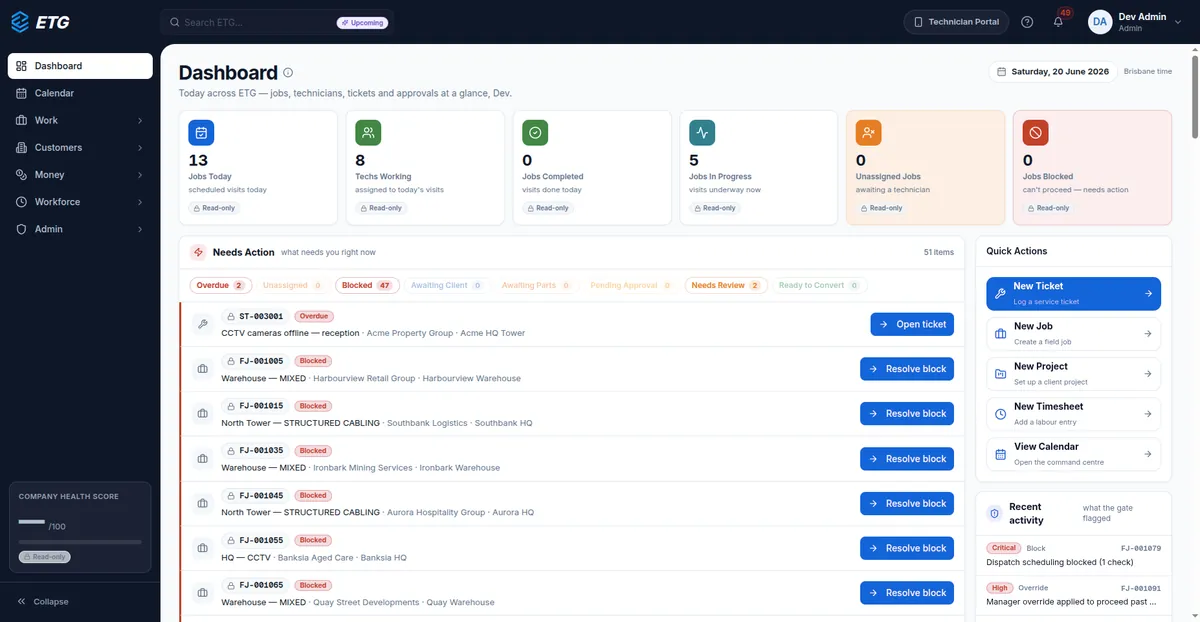
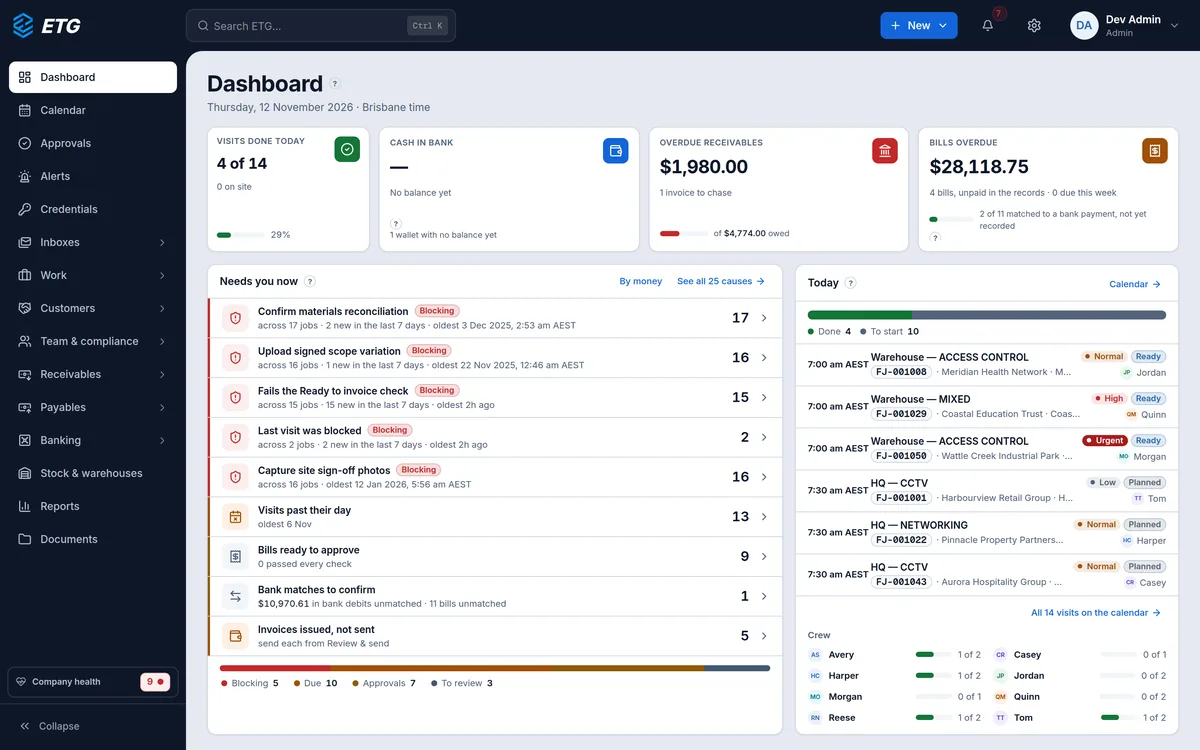
ETG: new walkthrough screens

diff --git a/work/etg/index.html b/work/etg/index.html
@@ -116,19 +116,40 @@
     <div class="walk-group reveal">
       <div class="walk-group-label">Technician App · Mobile</div>
       <div class="shots cols-3 phones">
-        <div class="shot"><div class="phone"><img width="400" height="867" src="../../assets/img/etg/app-accept.webp" alt="ETG technician job acceptance" loading="lazy"></div><div class="shot-cap">Accept job &amp; site brief</div></div>
-        <div class="shot"><div class="phone"><img width="400" height="867" src="../../assets/img/etg/app-working.webp" alt="ETG technician working view" loading="lazy"></div><div class="shot-cap">On the clock &amp; evidence</div></div>
-        <div class="shot"><div class="phone"><img width="400" height="867" src="../../assets/img/etg/app-schedule.webp" alt="ETG technician schedule" loading="lazy"></div><div class="shot-cap">Upcoming schedule</div></div>
+        <div class="shot"><div class="phone"><img width="640" height="1376" src="../../assets/img/etg/tech-today.webp" alt="ETG technician home with the day&#39;s jobs" loading="lazy"></div><div class="shot-cap">Today: jobs &amp; what needs attention</div></div>
+        <div class="shot"><div class="phone"><img width="640" height="1376" src="../../assets/img/etg/tech-travel-timer.webp" alt="ETG technician travel timer" loading="lazy"></div><div class="shot-cap">Travel timer on the way to site</div></div>
+        <div class="shot"><div class="phone"><img width="640" height="1376" src="../../assets/img/etg/tech-working-timer.webp" alt="ETG technician on the clock" loading="lazy"></div><div class="shot-cap">On the clock at the site</div></div>
+        <div class="shot"><div class="phone"><img width="640" height="1376" src="../../assets/img/etg/tech-job-closeout.webp" alt="ETG technician closeout checks" loading="lazy"></div><div class="shot-cap">Closeout checks before finishing</div></div>
+        <div class="shot"><div class="phone"><img width="640" height="1376" src="../../assets/img/etg/tech-timesheet.webp" alt="ETG technician timesheet" loading="lazy"></div><div class="shot-cap">A timesheet week sent back for a fix</div></div>
+        <div class="shot"><div class="phone"><img width="640" height="1376" src="../../assets/img/etg/tech-schedule.webp" alt="ETG technician schedule" loading="lazy"></div><div class="shot-cap">Upcoming schedule</div></div>
       </div>
     </div>
 
     <div class="walk-group reveal">
-      <div class="walk-group-label">Admin &amp; Field · Web</div>
+      <div class="walk-group-label">Operations · Web</div>
       <div class="shots">
-        <div class="shot"><div class="frame"><div class="frame-bar"><i></i><i></i><i></i></div><img width="1200" height="622" src="../../assets/img/etg/admin-calendar.webp" alt="ETG scheduling command centre" loading="lazy"></div><div class="shot-cap">Admin, scheduling command centre</div></div>
-        <div class="shot"><div class="frame"><div class="frame-bar"><i></i><i></i><i></i></div><img width="1200" height="622" src="../../assets/img/etg/admin-dashboard.webp" alt="ETG admin dashboard" loading="lazy"></div><div class="shot-cap">Admin dashboard: live operations</div></div>
-        <div class="shot"><div class="frame"><div class="frame-bar"><i></i><i></i><i></i></div><img width="1200" height="622" src="../../assets/img/etg/admin-invoice.webp" alt="ETG invoicing" loading="lazy"></div><div class="shot-cap">Invoicing: dual-sided billing</div></div>
-        <div class="shot"><div class="frame"><div class="frame-bar"><i></i><i></i><i></i></div><img width="1200" height="622" src="../../assets/img/etg/tech-web-job.webp" alt="ETG technician web portal" loading="lazy"></div><div class="shot-cap">Technician web portal: job view</div></div>
+        <div class="shot"><div class="frame"><div class="frame-bar"><i></i><i></i><i></i></div><img width="1200" height="750" src="../../assets/img/etg/admin-dashboard.webp" alt="ETG admin dashboard" loading="lazy"></div><div class="shot-cap">Dashboard: what needs action now</div></div>
+        <div class="shot"><div class="frame"><div class="frame-bar"><i></i><i></i><i></i></div><img width="1200" height="750" src="../../assets/img/etg/admin-calendar-dispatch-week.webp" alt="ETG dispatch board, week view" loading="lazy"></div><div class="shot-cap">Dispatch board, week view</div></div>
+        <div class="shot"><div class="frame"><div class="frame-bar"><i></i><i></i><i></i></div><img width="1200" height="750" src="../../assets/img/etg/admin-field-jobs-list.webp" alt="ETG field jobs list" loading="lazy"></div><div class="shot-cap">Field jobs, blocked first</div></div>
+        <div class="shot"><div class="frame"><div class="frame-bar"><i></i><i></i><i></i></div><img width="1200" height="750" src="../../assets/img/etg/admin-inbox-thread-linked-job.webp" alt="ETG shared inbox thread" loading="lazy"></div><div class="shot-cap">Shared inbox: an email linked to its job</div></div>
+      </div>
+    </div>
+
+    <div class="walk-group reveal">
+      <div class="walk-group-label">The Rulebook at Work</div>
+      <div class="shots">
+        <div class="shot"><div class="frame"><div class="frame-bar"><i></i><i></i><i></i></div><img width="1200" height="750" src="../../assets/img/etg/admin-job-stage-override.webp" alt="ETG blocked stage change with manager override" loading="lazy"></div><div class="shot-cap">A blocked stage change &amp; the manager override</div></div>
+        <div class="shot"><div class="frame"><div class="frame-bar"><i></i><i></i><i></i></div><img width="1200" height="750" src="../../assets/img/etg/admin-job-finish-dialog.webp" alt="ETG closeout blocked until evidence is recorded" loading="lazy"></div><div class="shot-cap">Closeout blocked until the evidence is on record</div></div>
+        <div class="shot"><div class="frame"><div class="frame-bar"><i></i><i></i><i></i></div><img width="1200" height="750" src="../../assets/img/etg/admin-enforcement-rules.webp" alt="ETG enforcement rules" loading="lazy"></div><div class="shot-cap">Where the rules fire across the job lifecycle</div></div>
+        <div class="shot"><div class="frame"><div class="frame-bar"><i></i><i></i><i></i></div><img width="1200" height="750" src="../../assets/img/etg/admin-invoice-draft-lines.webp" alt="ETG draft invoice checks" loading="lazy"></div><div class="shot-cap">Checks on a draft invoice before issue</div></div>
+      </div>
+    </div>
+
+    <div class="walk-group reveal">
+      <div class="walk-group-label">Bills &amp; Bank</div>
+      <div class="shots">
+        <div class="shot"><div class="frame"><div class="frame-bar"><i></i><i></i><i></i></div><img width="1200" height="750" src="../../assets/img/etg/admin-bill-ai-read-with-pdf.webp" alt="ETG supplier bill read from its PDF" loading="lazy"></div><div class="shot-cap">A supplier bill read from its PDF, awaiting confirmation</div></div>
+        <div class="shot"><div class="frame"><div class="frame-bar"><i></i><i></i><i></i></div><img width="1200" height="750" src="../../assets/img/etg/admin-bill-matching-compare.webp" alt="ETG bank payment compared with its bill" loading="lazy"></div><div class="shot-cap">A bank payment matched against its bill</div></div>
       </div>
     </div>
   </div>
